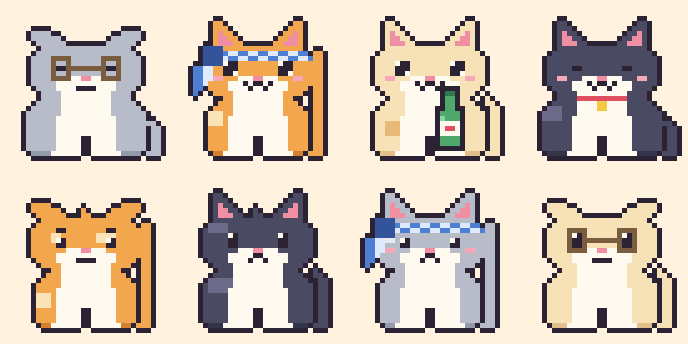
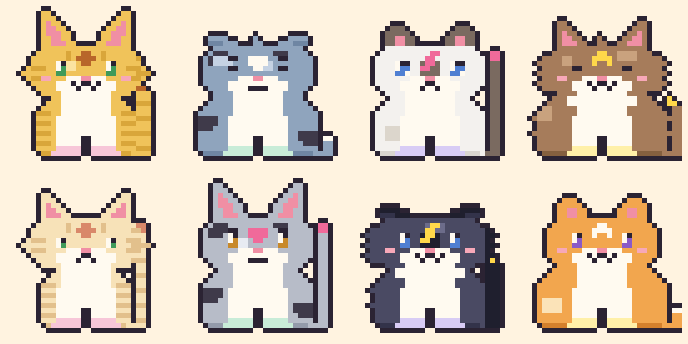
docs: README 전면 갱신 (13문항 설문·외형 축, 선물 전용 악세사리, 인테리어, 저장/백업, 예시 이미지 교체)

diff --git a/README.md b/README.md
@@ -3,8 +3,9 @@
 > 귀엽지만 쓸 데 없고, 내가 즐거운 것을 만들자.
 > 마치 귀여운 똥을 싸는 고양이처럼.  — *project cat-ddong*
 
-설문에 답하면 **내 행동 패턴을 닮은 픽셀 고양이**가 찾아오는 브라우저 서비스예요.
-찾아온 고양이는 고양이들이 모이는 **사랑방**에서 다른 손님 고양이들과 어울리고, 만난 고양이는 **도감**에 모여요.
+설문에 답하면 **고양이가 된 나**, 즉 내 행동 패턴을 닮은 픽셀 고양이가 만들어지는 브라우저 서비스예요.
+내 고양이는 고양이들이 모이는 **사랑방**의 호스트가 되어 손님 고양이들을 맞이하고, 만난 고양이는 **도감**에 모여요.
+손님이 주는 **선물**로 꾸미고, 방을 **인테리어**하고, 도감 고양이들이 인사하는 **영상**으로 자랑할 수 있어요.
 
 <p align="center">
   <a href="https://elain2.github.io/cat-ddong/"><img src="docs/og.png" alt="고양이 사랑방 미리보기" width="720"></a>
@@ -20,25 +21,25 @@
 ## 어떻게 즐기나요
 
 1. **입장**: 집사 고양이가 인사하며 설문을 시작해요.
-2. **설문 13문항**: "쉬는 날 아침 눈을 떴다. 지금 기분은?" 같은 가벼운 객관식이에요.
+2. **설문 13문항**: "쉬는 날 아침 눈을 떴다. 지금 기분은?" 같은 가벼운 객관식이에요. (질문마다 선택지는 2~4개)
    귀찮다면 **"설문 건너뛰고 바로 만들기"** 로 랜덤 고양이를 만들 수 있어요. 설문 도중에 **"건너뛰기"** 를 누르면 남은 문항만 랜덤이에요.
-3. **고양이 등장**: 답변이 고양이의 성격과 외형이 되어 3프레임 애니메이션으로 나타나요.
-4. **이유 풀이**: "귀가 쫑긋해요 → 새로운 얼굴이 반가워요."처럼 왜 이렇게 생겼는지 알려줘요.
-5. **사랑방 입장**: 방 안을 오가는 손님 고양이를 눌러 만나고 도감을 채워요.
+3. **이름**: 고양이가 된 나를 뭐라고 부를지 정해요. 입력한 이름이 곧 고양이 이름이에요. (비우면 지어 줘요)
+4. **고양이 등장**: 답변이 성격과 외형이 되어 3프레임 애니메이션으로 나타나요. 처음엔 **맨몸**이에요.
+5. **이유 풀이**: "귀가 커다래요 → 리액션이 아주 커요."처럼 왜 이렇게 생겼는지 알려줘요.
+6. **사랑방 입장**: 방 안을 오가는 손님 고양이를 눌러 만나고, 선물을 받고, 도감을 채워요.
 
 ## 이런 고양이들이 나와요
 
 <p align="center">
-  <img src="docs/cats.png" alt="예시 고양이들" width="640">
+  <img src="docs/cats.png" alt="설문으로 나오는 고양이들" width="640"><br>
+  <sub>털색, 무늬, 귀, 꼬리, 체형, 털 결이 모두 답변에서 나와요. 악세사리는 없어요.</sub>
 </p>
-
-같은 설문이라도 성격 축과 취향 조합에 따라 전혀 다른 고양이가 나와요.
 
 ### 내 답변이 곧 외형이에요
 
-설문은 행동 패턴으로 **성격 4축**을 재고, 외형은 각 축이 직관적으로 드러나는 곳에 은유로 나타나요.
+설문은 행동 패턴으로 **성격 4축**을 재고, 외형은 각 답이 직관적으로 드러나는 곳에 은유로 나타나요.
 
-| 성격 축 | 외형에 나타나는 곳 | 은유 |
+| 질문이 묻는 것 | 외형에 나타나는 곳 | 은유 |
 |---|---|---|
 | 에너지 (느긋 / 보통 / 활발) | 체형, 꼬리, 눈 | 느긋: 통통하고 꼬리가 짧고 눈을 감고 있어요. 활발: 날씬하고 꼬리가 꼿꼿해요. |
 | 사교성 (독립 / 보통 / 친화) | 귀, 입, 볼 | 독립: 귀가 눕고 입이 일자예요. 친화: 귀가 쫑긋하고 W 입에 볼이 발그레해요. |
@@ -49,16 +50,17 @@
 | 먹는 걸 좋아하는 정도 | 체형 | 소식=날씬, 적당히=기본, 먹보=통통 |
 | 아침 머리 상태 | 털 결 | 깔끔=매끈, 살짝 뻗침=볼털, 폭탄=온몸 폭신 |
 | 옷장 속 내 옷 | 무늬 | 무지=무늬 없음, 스트라이프=줄무늬, 도트=점박이, 포인트=귀·꼬리 끝이 진함 |
-| 좋아하는 시간 + 쉬는 날 분위기 | 털색 (8가지) | 시간(아침/한낮/해질녘/밤) x 분위기(따뜻/시원). 따뜻: 크림·꿀색·오렌지·초콜릿, 시원: 화이트·블루·은회색·검정 |
+| 좋아하는 시간 + 쉬는 날 분위기 | 털색 (8가지) | 시간(아침/한낮/해질녘/밤) × 분위기(따뜻/시원). 따뜻: 크림·꿀색·오렌지·초콜릿, 시원: 화이트·블루·은회색·검정 |
 
-선택지는 질문마다 2~4개로 두고, 대신 질문을 나눠서 조합을 늘렸어요. (설문만으로 약 37만 가지, 호스트 표식까지 곱하면 2,400만 가지 가까이 돼요.)
-**악세사리는 설문으로 정해지지 않아요.** 고양이는 맨몸으로 태어나고, 사랑방에서 손님이 주는 **선물**로만 얻어서 직접 입혀요.
+선택지를 늘리지 않고 **질문을 나눠서** 조합을 키웠어요. 설문만으로 약 37만 가지가 나오고, 호스트 표식까지 곱하면 2,400만 가지 가까이 돼요.
 
-### 퇴근 후 저녁 액세서리
+### 악세사리는 선물로만 얻어요
+
+설문은 악세사리를 정하지 않아요. 고양이는 맨몸으로 태어나고, 사랑방에서 **손님이 주는 선물**로만 꾸밀 수 있어요.
 
 <p align="center">
-  <img src="docs/accessories.png" alt="액세서리 4종" width="560"><br>
-  <sub>넥타이 머리띠 · 안경 · 소주병 · 방울 (넥타이와 술병을 고르면 볼이 발그레해져요)</sub>
+  <img src="docs/accessories.png" alt="선물을 입은 모습" width="560"><br>
+  <sub>왕관 + 진주 목걸이 · 하트 안경 + 아이스크림 · 산타모자 + 망토 + 메달 · 밀짚모자 + 배낭 + 꽃목걸이</sub>
 </p>
 
 ### 시즌 한정 손님
@@ -75,20 +77,19 @@
 
 ## 결과 해석하는 법
 
-결과 카드는 위에서부터 **타이틀 → 이름 → 이유 풀이 6줄** 순서로 읽어요.
+결과 카드는 위에서부터 **타이틀 → 이름 → 이유 풀이** 순서로 읽어요.
 
-- **타이틀**은 에너지와 사교성을 조합한 9가지 중 하나예요. 아래 표를 보세요.
-- **이름**은 내가 입력한 이름이에요. 비워 두면 시드로 지어 줘요. (설문으로 만든 고양이는 **고양이가 된 나**예요.)
-  설문으로 만든 고양이는 **고양이가 된 나**예요. 입력한 이름이 곧 고양이 이름이고(비우면 지어 줘요), 집사의 인사말과 자랑하기 영상 제목에 쓰여요. 사랑방의 "내 이름 바꾸기"로 나중에 바꿀 수 있어요.
-- **이유 풀이**는 고양이의 생김새가 내 답변의 어떤 면에서 왔는지 한 줄씩 알려줘요.
-  앞의 4줄(체형·표정·털·눈)은 성격, 그다음 털색·무늬·악세사리는 취향이에요. 타이틀 앞에는 무늬 이름(줄무늬/점박이/포인트)이 붙어요.
+- **타이틀**은 에너지와 사교성을 조합한 9가지 중 하나예요. 무늬가 있으면 앞에 무늬 이름이 붙어요. (예: 줄무늬 동네 인싸 냥)
+- **이름**은 내가 입력한 이름이에요. 비워 두면 시드로 지어 줘요. 집사의 인사말과 자랑하기 영상 제목에 쓰이고, 사랑방의 "내 이름 바꾸기"로 나중에 바꿀 수 있어요.
+- **이유 풀이**는 생김새가 내 답변의 어떤 면에서 왔는지 한 줄씩 알려줘요.
+  성격 4줄 → 털색·무늬 → 귀·꼬리·체형·털 결(기본이 아닐 때만) → 호스트 표식 → 입고 있는 선물 순서예요.
 
 ### 호스트만의 표식
 
 내 고양이는 도감이나 손님 고양이와 겹쳐 보이지 않도록 **이마 무늬**(별, 하트, 번개, M자), **색깔 있는 눈**(호박, 초록, 파랑, 보라),
 **물든 꼬리 끝**, **색깔 양말**(분홍, 민트, 연보라, 버터)을 갖고 있어요.
 도감 고양이는 이 표식을 갖지 않기 때문에, 설문 결과가 도감의 고양이와 같은 조합으로 나와도 한눈에 구별돼요.
-표식은 시드(답변과 이름)로 정해져서 같은 입력이면 항상 같아요. 이유 풀이 마지막 줄에 표식이 나와요.
+표식은 시드(답변과 이름)로 정해져서 같은 입력이면 항상 같아요.
 
 ### 타이틀 9종
 
@@ -111,27 +112,37 @@
 | 눈썹이 있어요 | 도도해요. 독립적인 성격이 얼굴에 드러나요. |
 | 귀가 쫑긋하고 볼이 발그레하고 W 입 | 사교적이에요. 새로운 얼굴이 반가워요. |
 | 귀가 옆으로 눕고 입이 일자 | 독립적이에요. 혼자 있는 시간이 소중해요. |
+| 귀가 동글동글해요 | 맞장구를 잘 쳐 줘요. |
+| 귀가 접혀 있어요 | 한 귀로 듣고 한 귀로 흘려요. |
+| 귀가 커다래요 | 리액션이 아주 커요. |
+| 꼬리가 몽땅해요 | 좋아도 속으로만 좋아해요. |
+| 꼬리가 길어요 | 기분이 온몸에 다 드러나요. |
+| 꼬리가 풍성해요 | 기분이 좋으면 온몸이 부풀어요. |
+| 날씬해요 / 통통해요 | 소식하는 편이에요 / 먹는 즐거움을 알아요. |
+| 볼털이 뻗쳤어요 / 온몸이 폭신해요 | 꾸미지 않아도 매력 있어요 / 어디서든 포근한 인상이에요. |
 | 털이 얼룩덜룩하고 삐죽 솟아 있어요 | 털털해요. 신경을 안 써요. |
 | 털이 깔끔한 단색이에요 | 섬세하고 예민해요. 디테일에 민감해요. |
 | 꼬리가 길고 꼿꼿해요 | 에너지가 넘쳐요. 가만히 있으면 몸이 근질근질해요. |
 | 통통하고 꼬리가 짧아요 | 느긋하게 즐기는 타입이에요. |
+| 줄무늬 / 점박이 / 포인트 | 개성이 뚜렷해요 / 어딜 가도 눈에 띄어요 / 포인트 하나로 멋을 낼 줄 알아요. |
 
-### 취향으로 읽는 분위기
+### 털색으로 읽는 분위기
 
-| 털색 | 의미 | 액세서리 | 의미 |
+| 털색 | 의미 | 털색 | 의미 |
 |---|---|---|---|
-| 크림 | 아침 햇살, 하루의 시작을 좋아해요. | 넥타이 머리띠 | 오늘은 달리는 날이에요. 분위기 메이커예요. |
-| 오렌지 | 해질녘 노을을 좋아해요. | 안경 | 책 한 권이면 충분해요. |
-| 검정 | 조용한 밤이 편해요. | 소주병 | 한 잔이면 세상이 다 내 편이에요. |
-| 은회색 | 고요한 새벽을 사랑해요. | 맨몸 | 몸만 가볍게 다녀요. |
+| 크림 | 아침 햇살, 하루의 시작을 좋아해요. | 화이트 | 조용하고 깨끗한 날이 좋아요. |
+| 꿀색 | 한낮의 햇볕 아래가 제일 좋아요. | 블루 | 비 갠 오후처럼 차분해요. |
+| 오렌지 | 해질녘 노을을 좋아해요. | 은회색 | 고요한 새벽을 사랑해요. |
+| 초콜릿 | 따뜻한 저녁 한 잔을 좋아해요. | 검정 | 조용한 밤이 편해요. |
 
 > **볼이 발그레한 이유는 둘이에요.**
-> 사교성이 높아서이거나, 넥타이나 술병을 골라서(취해서)예요. 이유 풀이 줄에서 어느 쪽인지 확인할 수 있어요.
+> 사교성이 높아서이거나, 넥타이 머리띠나 술병을 입고 있어서(취해서)예요. 이유 풀이 줄에서 어느 쪽인지 확인할 수 있어요.
 
 ## 사랑방
 
 <p align="center">
-  <img src="docs/room.png" alt="사랑방" width="480">
+  <img src="docs/room.png" alt="사랑방" width="480"><br>
+  <sub>인테리어(민트 벽지, 타일 바닥, 파란 러그, 가구)를 바꾸고 왕관과 진주 목걸이를 건 호스트</sub>
 </p>
 
 - 네코아츠메처럼 방 전체를 한 화면에서 내려다봐요.
@@ -139,52 +150,61 @@
 - **손님**은 도감 60마리 중 4마리가 30분마다 바뀌어요. 누가 오는지는 **사람마다 달라서** 친구와 같은 시각에 접속해도 손님과 선물이 달라요. 머리 위에 `!`가 떠 있으면 아직 못 만난 고양이예요.
 - **고양이를 집어서 옮길 수 있어요.** 잡고 끌면 번쩍 들리고, 바닥 아무 데나 놓을 수 있어요.
   **캣타워 꼭대기/중간, 선반, 창틀** 위에 놓으면 올라앉아요. 올릴 수 있는 자리 위에서는 반짝여서 알려줘요.
-  (가볍게 누르면 예전처럼 "만나기"예요.)
-  높은 곳에 앉은 고양이는 **가끔 아래 고양이를 내려다보고**, 아래 고양이는 올려다보며 반응해요.
-  (친화적이면 ♥ → 아래도 ♥, 독립적이면 … → 아래는 ✕, 그 밖엔 ♪ 또는 ?)
-- **인테리어**: 도감을 모으면 단계별로 열려요. 가구는 끌어서 옮기고, 쿠션·고양이 침대·곰인형 위에는 고양이를 올릴 수 있어요.
+  (가볍게 누르면 "만나기"예요.) 높은 곳에 앉은 고양이는 **가끔 아래 고양이를 내려다보고**, 아래 고양이는 올려다보며 반응해요.
+- **고양이끼리 반응해요.** 가까이 있으면 성격과 취향에 따라 머리 위에 아이콘이 떠요.
 
-  | 단계 | 조건 | 열리는 것 |
-  |---|---|---|
-  | 1 | 도감 10마리 | 벽지(크림 줄무늬, 민트 물방울), 바닥(타일), 러그(파랑), 가구(쿠션, 화분) |
-  | 2 | 20마리 | 벽지(분홍 물방울), 바닥(체크무늬), 러그(초록), 가구(스탠드, 고양이 침대) |
-  | 3 | 30마리 | 벽지(밤하늘 별), 러그(보라), 가구(어항, 곰인형) |
+  | 상황 | 반응 |
+  |---|---|
+  | 친화적인 고양이가 곁에 있으면 | 하트 💕 (서로 친화적이면 같이 하트, 먼저 찾아가기도 해요) |
+  | 독립적인 고양이 곁에 누가 오면 | ✕ 표시를 띄우고 슬며시 자리를 떠요 |
+  | 넥타이/술병 고양이끼리 | ♪ 건배하며 콩콩 뛰어요 |
+  | 활발한 고양이끼리 | ♪ 신나서 콩콩 뛰어요 |
+  | 느긋한 고양이 | zzz 꾸벅꾸벅 졸아요 |
+  | 그 밖의 경우 | … 가만히 쳐다봐요 |
 
-  가구는 최대 8개까지 놓을 수 있고, 배치는 저장돼요. (일반+한정 도감을 합친 수 기준이에요.)
-- **선물**: 손님이 가끔(30분마다 약 45%) 🎁를 들고 와요. 그 고양이를 눌러 받으면 **선물함**에 들어가고,
-  내 고양이(호스트)가 착용할 수 있어요. (이미 가진 선물이면 간식으로 바꿔줘요.)
-  - 손님은 **자기가 하고 있는 악세사리**를 선물해요. 아무것도 안 한 고양이는 특별 선물 23종 중 하나를 줘요.
-  - 선물함에서 누르면 착용, 한 번 더 누르면 벗어요. 설문으로 정해진 악세사리는 그대로 보존돼요.
-  - **자리(슬롯)마다 하나씩 같이 입을 수 있어요.** 머리(왕관, 고깔모자, 꽃관, 넥타이…), 얼굴(안경, 선글라스), 목(진주/조개 목걸이, 목도리, 방울), 등(망토), 손(술병).
-    같은 자리의 선물을 고르면 앞의 것이 벗겨져요. "모두 벗기"로 한 번에 벗을 수 있어요.
-
-    | 자리 | 선물 |
-    |---|---|
-    | 머리 | 넥타이 머리띠, 벚꽃, 단풍잎, 왕관, 고깔모자, 꽃관, 리본핀, 헤드폰, 베레모, 밀짚모자, 산타모자 |
-    | 얼굴 | 안경, 선글라스, 외눈안경, 하트 안경, 수면안대 |
-    | 목 | 방울, 목도리, 진주 목걸이, 조개 목걸이, 반다나, 메달, 꽃목걸이 |
-    | 등 | 망토, 천사 날개, 나비 날개, 배낭 |
-    | 손 | 생선, 풍선, 아이스크림 |
-  - 선물을 입은 모습은 사랑방, 결과 카드, 자랑하기 영상에 그대로 나와요. (총 30종)
+  반응이 일어나면 집사 고양이 말풍선에도 한 줄 알려줘요.
 - **간식**을 밥그릇에 놓으면 30분 동안 손님이 4마리에서 6마리로 늘고, 한정 손님이 올 확률도 올라가요.
   하루 첫 접속에 3개를 받고, 새 고양이를 처음 만날 때마다 1개씩 더 받아요. (최대 10개)
   먹는 중에도 더 놓으면 30분씩 이어 붙어요. (남은 시간은 최대 2시간)
-- **시즌 한정 손님**이 있어요. 오늘 날짜의 계절에만 놀러 오고, 머리 위에 ★가 떠 있어요. 도감에는 별도 칸(12마리)이 있어요.
-- **고양이끼리 반응해요.** 가까이 있으면 성격과 취향에 따라 머리 위에 아이콘이 떠요.
-- 내 고양이, 도감, **손님별 방문 기록**(몇 번째 방문인지, 지난번은 언제였는지)은 브라우저(localStorage)에 저장돼요.
-- **도감 사진**: 도감 카드의 "📸 도감 사진 저장"을 누르면 내 고양이, 도감 수, 모은 고양이(못 만난 건 실루엣)가 한 장에 담긴 PNG로 저장돼요.
-- **백업 코드**: 사랑방 아래 "백업 / 다른 기기로 옮기기"에서 코드를 만들고 붙여넣으면 다른 기기로 도감을 옮길 수 있어요. (서버 없이 동작해요)
+- **시즌 한정 손님**은 오늘 날짜의 계절에만 놀러 오고, 머리 위에 ★가 떠 있어요. 도감에는 별도 칸(12마리)이 있어요.
 
-| 상황 | 반응 |
+### 선물
+
+손님이 가끔(30분마다 약 45%) 🎁를 들고 와요. 그 고양이를 눌러 받으면 **선물함**에 들어가고, 내 고양이가 착용할 수 있어요.
+(이미 가진 선물이면 간식으로 바꿔줘요.)
+
+- 손님은 **자기가 하고 있는 악세사리**를 선물해요. 아무것도 안 한 고양이는 특별 선물 23종 중 하나를 줘요.
+- 선물함에서 누르면 착용, 한 번 더 누르면 벗어요. "모두 벗기"로 한 번에 벗을 수 있어요.
+- **자리(슬롯)마다 하나씩 같이 입을 수 있어요.** 같은 자리의 선물을 고르면 앞의 것이 벗겨져요. (총 30종)
+
+| 자리 | 선물 |
 |---|---|
-| 친화적인 고양이가 곁에 있으면 | 하트 💕 (서로 친화적이면 같이 하트, 먼저 찾아가기도 해요) |
-| 독립적인 고양이 곁에 누가 오면 | ✕ 표시를 띄우고 슬며시 자리를 떠요 |
-| 넥타이/술병 고양이끼리 | ♪ 건배하며 콩콩 뛰어요 |
-| 활발한 고양이끼리 | ♪ 신나서 콩콩 뛰어요 |
-| 느긋한 고양이 | zzz 꾸벅꾸벅 졸아요 |
-| 그 밖의 경우 | … 가만히 쳐다봐요 |
+| 머리 | 넥타이 머리띠, 벚꽃, 단풍잎, 왕관, 고깔모자, 꽃관, 리본핀, 헤드폰, 베레모, 밀짚모자, 산타모자 |
+| 얼굴 | 안경, 선글라스, 외눈안경, 하트 안경, 수면안대 |
+| 목 | 방울, 목도리, 진주 목걸이, 조개 목걸이, 반다나, 메달, 꽃목걸이 |
+| 등 | 망토, 천사 날개, 나비 날개, 배낭 |
+| 손 | 생선, 풍선, 아이스크림 |
 
-반응이 일어나면 집사 고양이 말풍선에도 한 줄 알려줘요.
+선물을 입은 모습은 사랑방, 결과 카드, 자랑하기 영상에 그대로 나와요.
+
+### 인테리어
+
+도감(일반 + 시즌 한정)을 모으면 단계별로 열려요. 가구는 끌어서 옮기고, 쿠션·고양이 침대·곰인형 위에는 고양이를 올릴 수 있어요.
+
+| 단계 | 조건 | 열리는 것 |
+|---|---|---|
+| 1 | 도감 10마리 | 벽지(크림 줄무늬, 민트 물방울), 바닥(타일), 러그(파랑), 가구(쿠션, 화분) |
+| 2 | 20마리 | 벽지(분홍 물방울), 바닥(체크무늬), 러그(초록), 가구(스탠드, 고양이 침대) |
+| 3 | 30마리 | 벽지(밤하늘 별), 러그(보라), 가구(어항, 곰인형) |
+
+가구는 최대 8개까지 놓을 수 있고, 배치는 저장돼요.
+
+### 저장과 백업
+
+- 내 고양이, 도감, **손님별 방문 기록**(몇 번째 방문인지, 지난번은 언제였는지), 선물함, 인테리어는 브라우저(localStorage)에 저장돼요.
+- **백업 코드**: 사랑방 아래 "백업 / 다른 기기로 옮기기"에서 코드를 만들고 붙여넣으면 다른 기기로 옮길 수 있어요. 서버 없이 동작해요.
+- **도감 사진**: 도감 카드의 "📸 도감 사진 저장"을 누르면 내 고양이, 도감 수, 모은 고양이(못 만난 건 실루엣)가 한 장에 담긴 PNG로 저장돼요.
+- **내 모습 저장**: 결과 카드에서 **PNG**, **움직이는 GIF**, **투명 배경 GIF**로 저장할 수 있어요.
 
 ## 자랑하기 (영상)
 
@@ -197,16 +217,17 @@
 5. 마무리 카드에 사이트 주소가 나와요.
 
 - 배경에는 **내가 꾸민 인테리어**(벽지, 바닥, 러그, 가구)가 그대로 반영돼요. 가구는 고양이들 뒤 벽쪽에 줄지어 보여요.
-- 길이는 12초(간식 장면이 있으면 16초), 세로 9:16(540x960)이라 스토리/릴스에 올리기 좋아요.
+- 길이는 12초(간식 장면이 있으면 16초), 세로 9:16(540×960)이라 스토리/릴스에 올리기 좋아요.
 - 출연하는 고양이는 최대 12마리예요. **한정 손님이 먼저**, 그다음 **방문이 많은 순**으로 뽑아요.
-- **영상(mp4/webm)** 또는 **사진(PNG)** 으로 저장할 수 있어요. (내 모습 카드에서는 **움직이는 GIF**와 **투명 배경 GIF**도 저장돼요.) 브라우저가 지원하는 형식으로 저장되고, 사파리/크롬은 mp4가 나와요.
-- 서버 없이 브라우저가 캔버스를 그대로 녹화해요. 녹화하는 12초 동안은 탭을 켜 둬야 해요.
+- **영상(mp4/webm)** 또는 **사진(PNG)** 으로 저장할 수 있어요. 브라우저가 지원하는 형식으로 저장되고, 사파리/크롬은 mp4가 나와요.
+- 서버 없이 브라우저가 캔버스를 그대로 녹화해요. 녹화하는 동안은 탭을 켜 둬야 해요.
 
 ## 만드는 방식
 
-- 이미지 파일이 하나도 없어요. **코드가 픽셀을 직접 찍어서** 32x32 고양이를 만들어요.
+- 이미지 파일이 하나도 없어요. **코드가 픽셀을 직접 찍어서** 32×32 고양이를 만들어요.
 - 고양이 속성은 시드로 복원되기 때문에 서버나 DB가 필요 없어요. (정적 사이트)
-- 같은 답변과 별명이면 항상 같은 고양이가 나와요.
+- 같은 답변과 별명이면 항상 같은 고양이가 나와요. (무늬, 귀·꼬리·체형·털 결은 시드 계산 뒤에 붙여서, 예전에 만든 고양이는 그대로 유지돼요.)
+- 손님과 선물은 시각과 **내 개인 시드**로 정해져서, 새로고침으로 뽑기를 할 수 없고 사람마다 달라요.
 
 ## 로컬에서 실행
 
@@ -221,16 +242,16 @@ python3 -m http.server 8765
 ## 구조
 
 ```
-index.html     레이아웃 + 스타일
-src/survey.js  설문 질문 데이터
-src/cat.js     답변 → 고양이 속성, 타이틀/이름/이유 풀이, 손님 시드
-src/render.js  속성 → 32x32 픽셀 그리드 → 캔버스 애니메이션
-src/gif.js     외부 라이브러리 없는 GIF 인코더 (움직이는 고양이 저장)
-src/interior.js 인테리어 카탈로그(벽지/바닥/러그/가구, 해금 단계, 저장값 검증)
-src/room.js    사랑방 (시즌 배경, 돌아다니는 고양이, 클릭 판정)
-src/showcase.js 자랑하기 (줄지어 인사하는 장면, 영상/사진 저장)
-src/app.js     화면 흐름 (인트로 → 설문 → 별명 → 결과 → 사랑방)
-docs/          README 예시 이미지
+index.html       레이아웃 + 스타일 + 링크 공유 미리보기(OG)
+src/survey.js    설문 질문 데이터
+src/cat.js       답변 → 고양이 속성, 타이틀/이름/이유 풀이, 선물, 손님 시드, 백업 검증
+src/render.js    속성 → 32x32 픽셀 그리드 → 캔버스 애니메이션 (몸통, 얼굴, 무늬, 선물)
+src/gif.js       외부 라이브러리 없는 GIF 인코더 (움직이는 고양이 저장)
+src/interior.js  인테리어 카탈로그(벽지/바닥/러그/가구, 해금 단계, 저장값 검증)
+src/room.js      사랑방 (시즌 배경, 인테리어, 돌아다니는 고양이, 반응, 끌어서 옮기기)
+src/showcase.js  자랑하기 (줄지어 인사하는 장면, 영상/사진 저장)
+src/app.js       화면 흐름 (인트로 → 설문 → 이름 → 결과 → 사랑방), 저장/백업
+docs/            README 예시 이미지
 ```
 
 설계 배경은 [design.survey-to-cat.md](design.survey-to-cat.md), 서비스 기획은 [proj.cat-ddong.md](proj.cat-ddong.md)에 있어요.
@@ -240,8 +261,9 @@ docs/          README 예시 이미지
 - [x] 고양이끼리 반응 (가까이 앉으면 하트 등)
 - [x] 시즌 한정 손님
 - [x] 간식으로 손님 늘리기
-- [x] 자랑하기 영상
+- [x] 자랑하기 영상 (간식 장면, 인테리어 반영)
 - [x] 고양이 집어서 옮기기, 높은 곳에 올리기
-- [x] 선물 받고 착용하기
-- [ ] 사랑방 꾸미기 아이템 배치
+- [x] 선물 받고 착용하기 (슬롯별 동시 착용)
+- [x] 인테리어 (벽지/바닥/러그/가구 배치)
+- [x] 도감 사진, 움직이는/투명 배경 GIF
 - [ ] 다른 사람의 고양이 만나기 (서버 필요)
